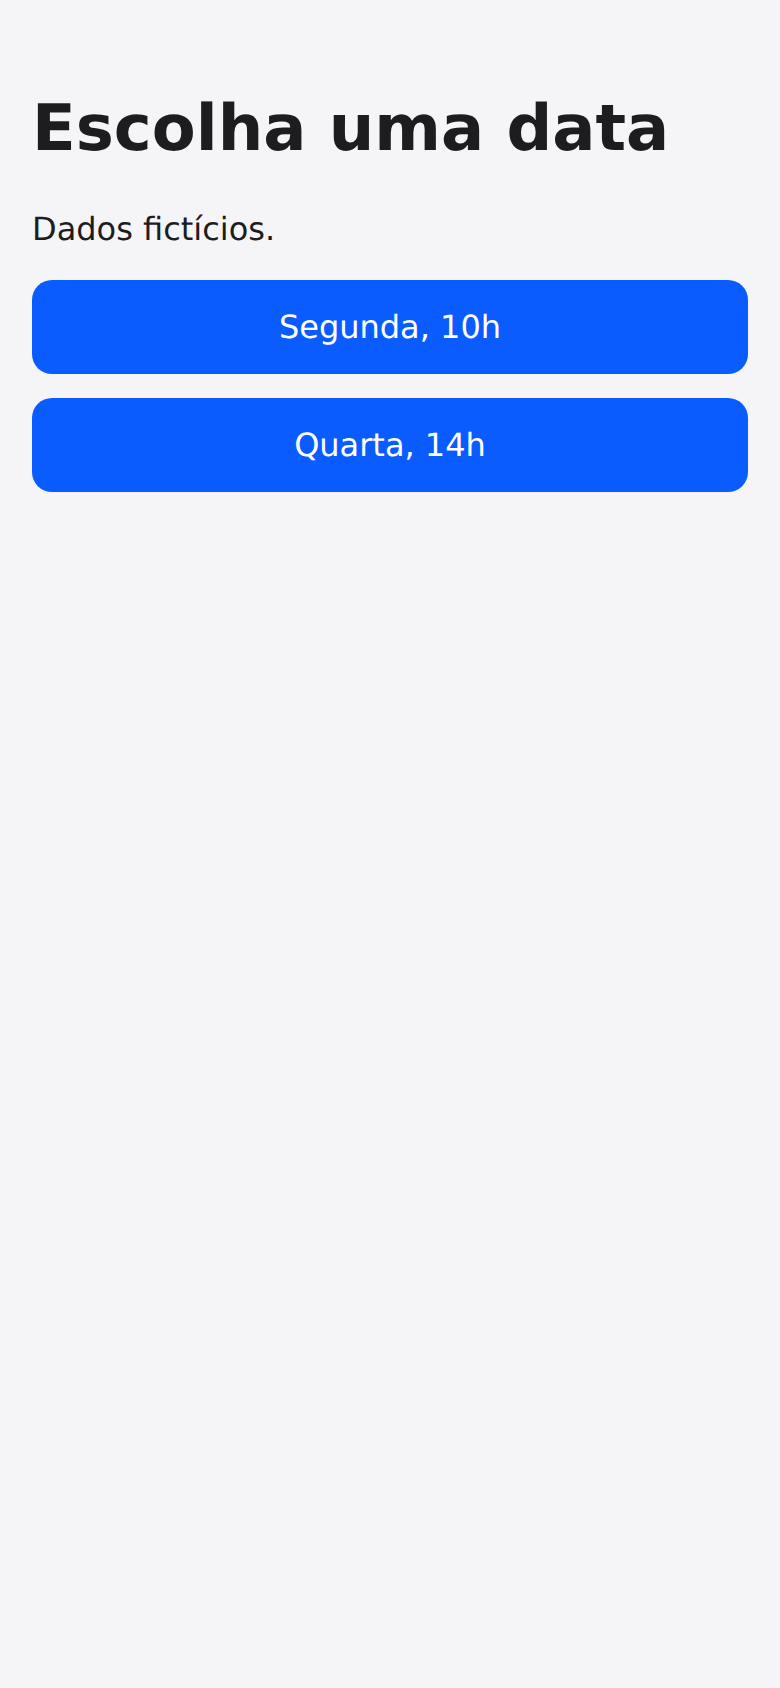
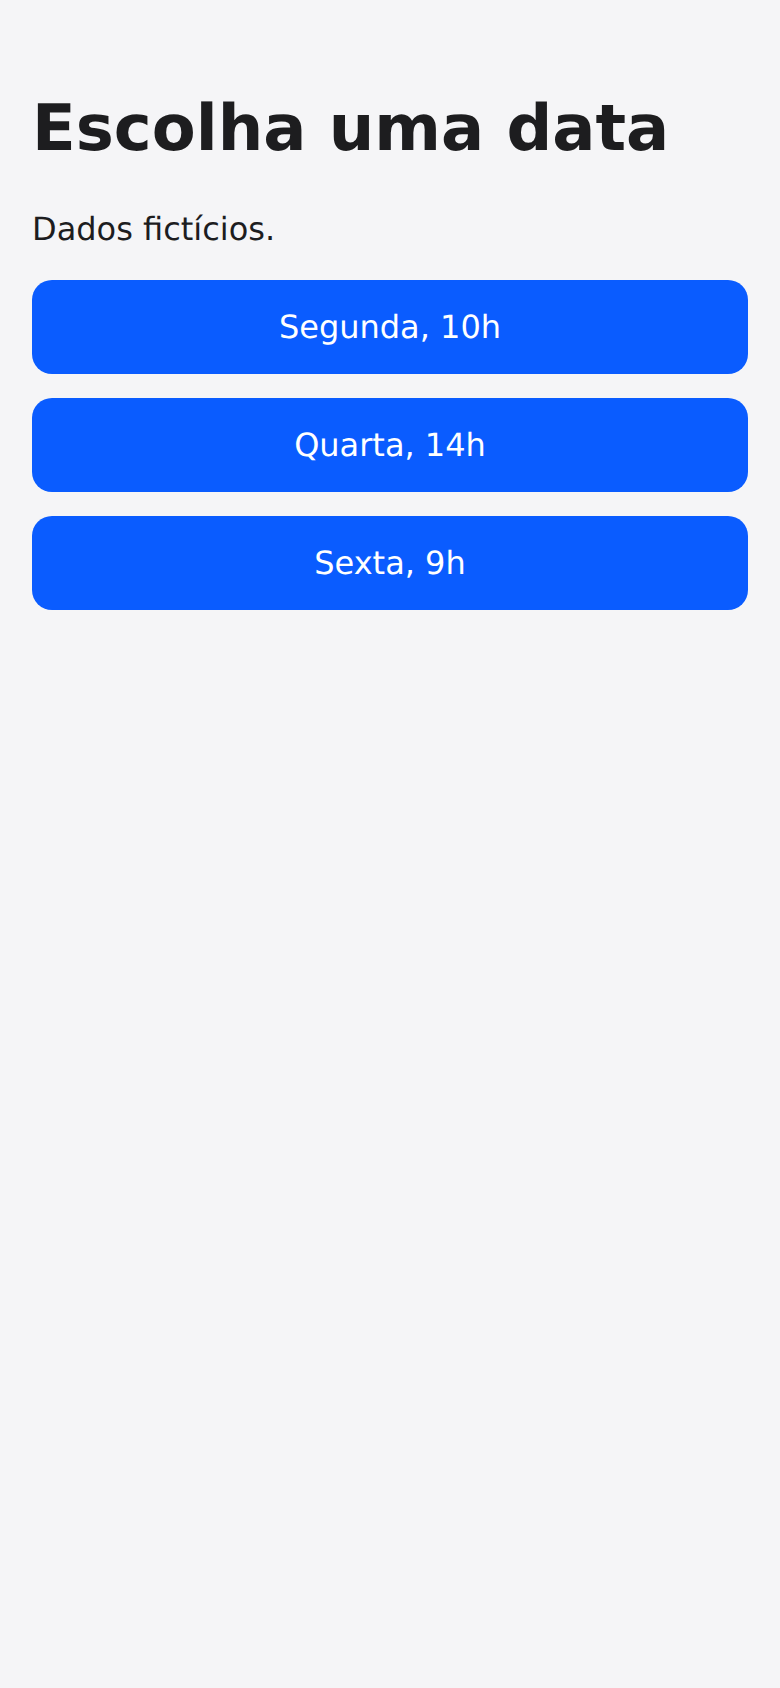
Deploying to gh-pages from @ VanzSantos/atlas-prototipos@5aa22890ecbaf1970315e221dac3ef92a23a6cdb 🚀

Changed region(s): [[0.0308, 0.3081, 0.9846, 0.3697]]

diff --git a/p/exemplo/portal-cliente/agendamento-consulta/canvas/index.html b/p/exemplo/portal-cliente/agendamento-consulta/canvas/index.html
@@ -32,6 +32,7 @@
         <p>Dados fictícios.</p>
         <div class="botao dia">Segunda, 10h</div>
         <div class="botao dia">Quarta, 14h</div>
+        <div class="botao dia">Sexta, 9h</div>
       </div>
       <div class="nota"><b>Regra</b>Mostrar só horários dos próximos 30 dias.</div>
       <div class="nota"><b>Dúvida</b>Precisa filtrar por especialidade antes?</div>

diff --git a/p/exemplo/backoffice/painel-tarefas/index.html b/p/exemplo/backoffice/painel-tarefas/index.html
@@ -18,6 +18,6 @@
     <tr><td>Revisar fluxo de cadastro</td><td>Pessoa A</td><td>Em andamento</td></tr>
     <tr><td>Testar com usuários</td><td>Pessoa B</td><td>A fazer</td></tr>
   </table>
-  <p><small>Dados fictícios. Gerado em 2026-11-13T11:52:16.109Z.</small></p>
+  <p><small>Dados fictícios. Gerado em 2026-11-13T11:54:14.328Z.</small></p>
 </body>
 </html>

diff --git a/p/exemplo/portal-cliente/agendamento-consulta/index.html b/p/exemplo/portal-cliente/agendamento-consulta/index.html
@@ -22,6 +22,7 @@
       <p>Dados fictícios.</p>
       <a class="botao dia" href="#/confirmar">Segunda, 10h</a>
       <a class="botao dia" href="#/confirmar">Quarta, 14h</a>
+      <a class="botao dia" href="#/confirmar">Sexta, 9h</a>
     </section>
     <section class="tela" data-rota="#/confirmar">
       <h1>Consulta marcada</h1>
